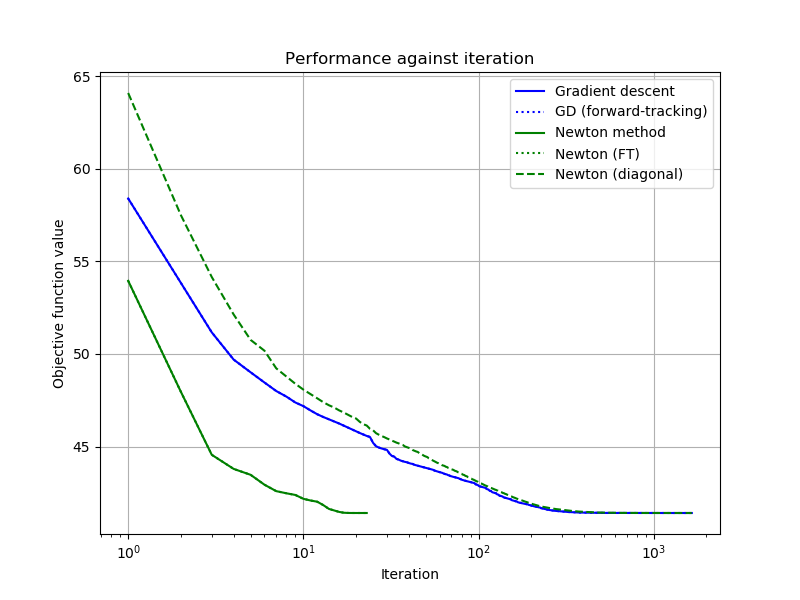
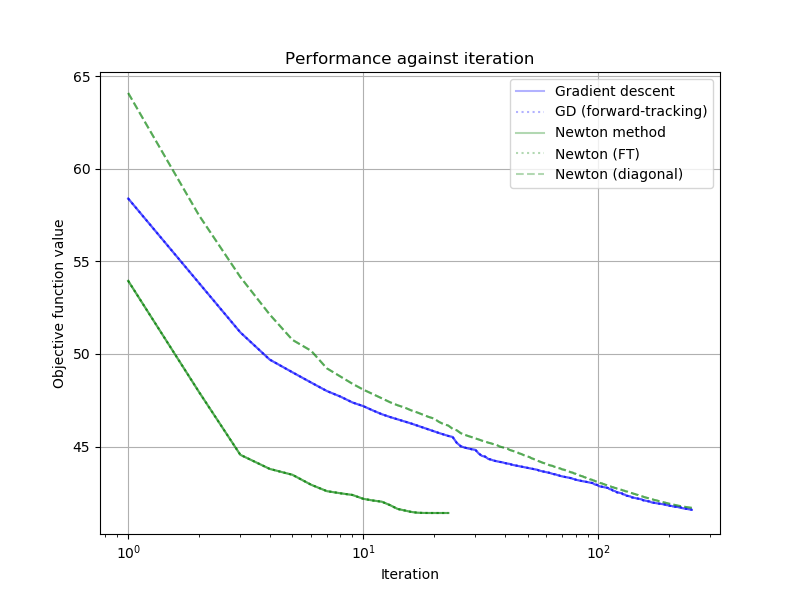
Improve precision and plots of timing for comparing Newton to GD

diff --git a/Code/main.py b/Code/main.py
@@ -346,41 +346,43 @@ def plot_against_epsilon(
 
 def plot_newton_vs_gradient_descent(
     i_filename="Images/f against i",
-    t_filename="Images/f against t", problem_num=2
+    t_filename="Images/f against t",
+    problem_num=2, num_attempts=3, n_its_gd=1650, n_its_newton=23
 ):
     A, b = fileio.load_A_b(problem_num)
-    # f_list_gd, t_list_gd, i_list_gd = [], [], []
-    # f_list_n, t_list_n, i_list_n = [], [], []
-    # f_list_gdf, t_list_gdf, i_list_gdf = [], [], []
-    # f_list_nf, t_list_nf, i_list_nf = [], [], []
-    # f_list_nd, t_list_nd, i_list_nd = [], [], []
-    # f_list = [[[] for _ in range(3)] for _ in range(5)]
-    # t_list = [[[] for _ in range(3)] for _ in range(5)]
-    # i_list = [[[] for _ in range(3)] for _ in range(5)]
-
+    f_list = [[None for _ in range(num_attempts)] for _ in range(5)]
+    t_list = [[None for _ in range(num_attempts)] for _ in range(5)]
+    i_list = [[None for _ in range(num_attempts)] for _ in range(5)]
     
-    f_list_gd, t_list_gd, i_list_gd = lo.fixed_its_gd(
-        A, b, nits=1650, verbose=False
-    )
-    f_list_n, t_list_n, i_list_n = lo.fixed_its_newton(
-        A, b, nits=23, verbose=False
-    )
-    f_list_gdf, t_list_gdf, i_list_gdf = lo.fixed_its_gd(
-        A, b, nits=1650, forward_tracking=True, verbose=False
-    )
-    f_list_nf, t_list_nf, i_list_nf = lo.fixed_its_newton(
-        A, b, nits=23, forward_tracking=True, verbose=False
-    )
-    f_list_nd, t_list_nd, i_list_nd = lo.fixed_its_newton(
-        A, b, nits=1650, diag_approx=True, verbose=False
-    )
+    lo.fixed_its_gd(A, b, nits=n_its_gd, verbose=False)
+    for a in range(num_attempts):
+        print("attempt", a+1)
+        f_list[0][a], t_list[0][a], i_list[0][a] = lo.fixed_its_gd(
+            A, b, nits=n_its_gd, verbose=False
+        )
+        f_list[1][a], t_list[1][a], i_list[1][a] = lo.fixed_its_gd(
+            A, b, nits=n_its_gd, forward_tracking=True, verbose=False
+        )
+        f_list[2][a], t_list[2][a], i_list[2][a] = lo.fixed_its_newton(
+            A, b, nits=n_its_newton, verbose=False
+        )
+        f_list[3][a], t_list[3][a], i_list[3][a] = lo.fixed_its_newton(
+            A, b, nits=n_its_newton, forward_tracking=True, verbose=False
+        )
+        f_list[4][a], t_list[4][a], i_list[4][a] = lo.fixed_its_newton(
+            A, b, nits=n_its_gd, diag_approx=True, verbose=False
+        )
 
     plt.figure(figsize=[8, 6])
-    plt.semilogx(
-        i_list_gd, f_list_gd, "b-", i_list_gdf, f_list_gdf, "b:",
-        i_list_n, f_list_n, "g-", i_list_nf, f_list_nf, "g:",
-        i_list_nd, f_list_nd, "g--"
-    )
+    for a in range(num_attempts):
+        plt.semilogx(
+            i_list[0][a], f_list[0][a], "b-",
+            i_list[1][a], f_list[1][a], "b:",
+            i_list[2][a], f_list[2][a], "g-",
+            i_list[3][a], f_list[3][a], "g:",
+            i_list[4][a], f_list[4][a], "g--",
+            alpha=0.3
+        )
     plt.xlabel("Iteration")
     plt.ylabel("Objective function value")
     plt.title("Performance against iteration")
@@ -393,12 +395,15 @@ def plot_newton_vs_gradient_descent(
     plt.close()
 
     plt.figure(figsize=[8, 6])
-    plt.semilogx(
-        t_list_gd, f_list_gd, "b-", t_list_gdf, f_list_gdf, "b:",
-        t_list_n, f_list_n, "g-", t_list_nf, f_list_nf, "g:",
-        t_list_nd, f_list_nd, "g--"
-    )
-    plt.xlim(left=1e-3)
+    for a in range(num_attempts):
+        plt.semilogx(
+            t_list[0][a], f_list[0][a], "b-",
+            t_list[1][a], f_list[1][a], "b:",
+            t_list[2][a], f_list[2][a], "g-",
+            t_list[3][a], f_list[3][a], "g:",
+            t_list[4][a], f_list[4][a], "g--",
+            alpha=0.3
+        )
     plt.xlabel("Time (s)")
     plt.ylabel("Objective function value")
     plt.title("Performance against time")
@@ -446,5 +451,5 @@ if __name__ == "__main__":
     # find_t_vals_l1()
     # plot_t_graphs_l1()
     # plot_against_epsilon()
-    plot_newton_vs_gradient_descent()
+    plot_newton_vs_gradient_descent(n_its_gd=250)
     # card_vs_gamma()

diff --git a/Code/linopt.py b/Code/linopt.py
@@ -2,7 +2,7 @@ import numpy as np
 from numpy.linalg import norm
 from scipy.optimize import linprog
 from scipy.linalg import solve
-from time import time
+from time import time, perf_counter
 
 import fileio
 
@@ -265,7 +265,8 @@ def fixed_its_gd(
     n = A.shape[1]
     outer_step = 0
     t = t0
-    t_start = time()
+    # t_start = time()
+    t_start = perf_counter()
     if random_init: x = np.random.normal(size=n)
     else: x = np.zeros(shape=n)
     f_list = np.empty(nits)
@@ -298,7 +299,8 @@ def fixed_its_gd(
             outer_step, inner_step, grad, A, x, b, epsilon
         )
         f_list[i] = smooth_l1(A, x, b, epsilon)
-        t_list[i] = time() - t_start
+        # t_list[i] = time() - t_start
+        t_list[i] = perf_counter() - t_start
         i_list[i] = i+1
         outer_step += 1
     return f_list, t_list, i_list
@@ -310,7 +312,8 @@ def fixed_its_newton(
     n = A.shape[1]
     outer_step = 0
     t = t0
-    t_start = time()
+    # t_start = time()
+    t_start = perf_counter()
     if random_init: x = np.random.normal(size=n)
     else: x = np.zeros(shape=n)
     f_list = np.empty(nits)
@@ -346,7 +349,8 @@ def fixed_its_newton(
             outer_step, inner_step, grad, A, x, b, epsilon
         )
         f_list[i] = smooth_l1(A, x, b, epsilon)
-        t_list[i] = time() - t_start
+        # t_list[i] = time() - t_start
+        t_list[i] = perf_counter() - t_start
         i_list[i] = i+1
         outer_step += 1
     return f_list, t_list, i_list
@@ -365,3 +369,4 @@ if __name__ == "__main__":
     # min_smooth_l1_newton(A, b, forward_tracking=True, diag_approx=True)
     # x, sparsity, _ = min_smooth_card_gradient_descent(A, b, gamma=2.2)
     # min_sparse_l2(A, b, sparsity)
+    
